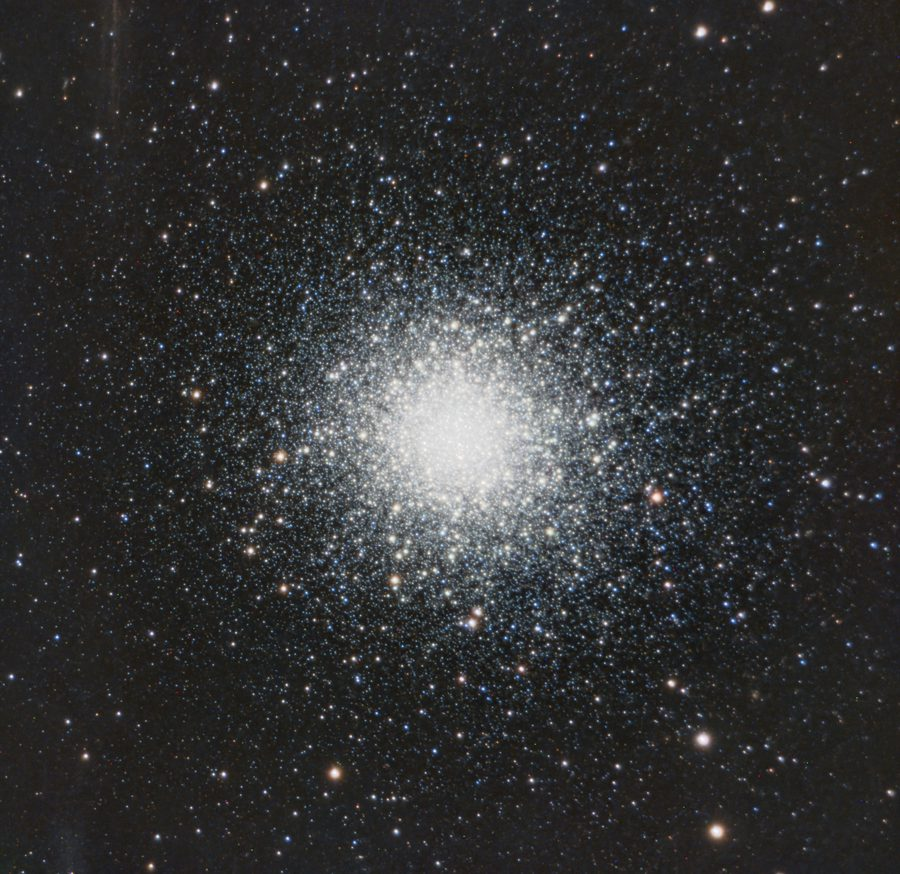
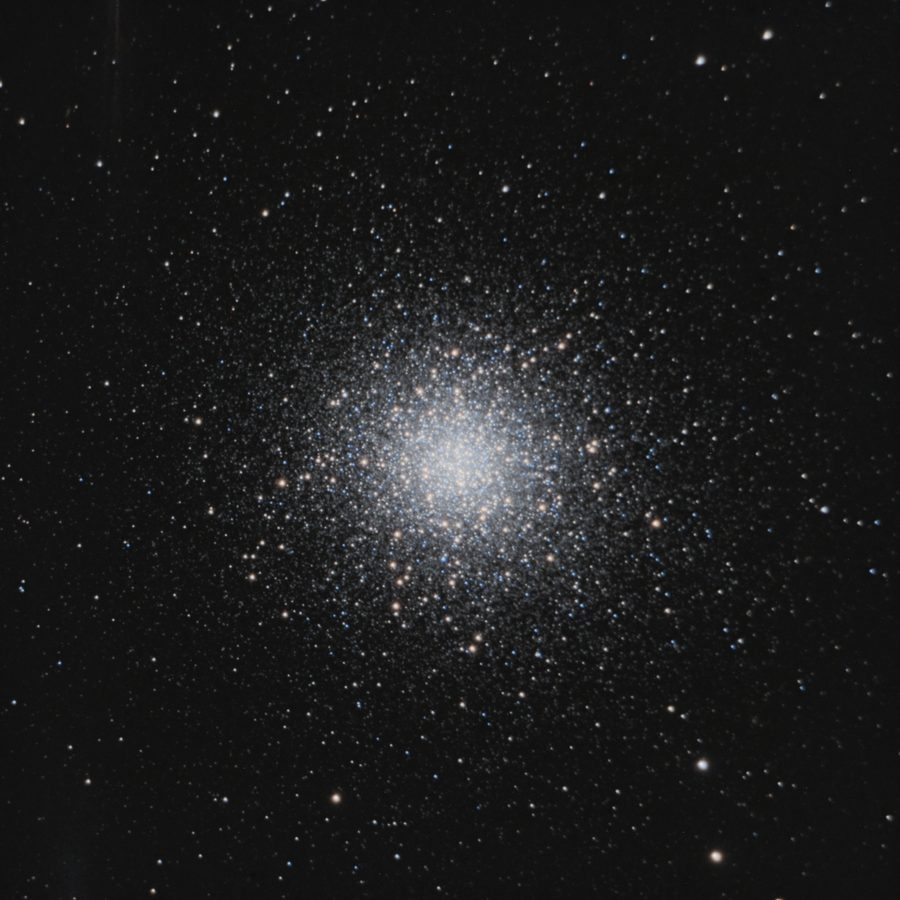
Update M13 and M51 images and add M64 with verified capture details

diff --git a/astro.html b/astro.html
@@ -551,17 +551,17 @@ Distance: 8.3 lm`,
     description: "A dense gathering of stars fades outward from the bright core of this globular cluster.",
     title: "Hercules Globular Cluster: M13",
     category: "Globular Cluster",
-    src: "./astro/M13 - Hercules Globular Cluster.jpg",
-    details: `Date: 05/29/2026
+    src: "./astro/M13 - Hercules Globular Cluster.jpg?v=20261031",
+    details: `Date: 05/30/2026 (recorded stack date)
+Capture date note: Exact acquisition interval could not be verified from the stack metadata.
 Gain: 101
 Offset: 50
 Subs: 141x60
 Scope: Celestron C8
 Filter: None
 Distance: 22,200 ly
-Constellation: Hercules
-Moon illumination: 99%`,
-    date: "2026-05-29",
+Constellation: Hercules`,
+    date: "2026-05-30",
     rank: 4
   },
 
@@ -590,10 +590,10 @@ Constellation: Andromeda`,
     objects: "Whirlpool (M51 / NGC5194), NGC5195",
     title: "Whirlpool and Companion: M51 and NGC5195",
     category: "Galaxy",
-    src: "./astro/M51 - Whirlpool Galaxy.jpg",
-    details: `Date: 05/31/2026 - 06/01/2026
-Gain: 101
-Offset: 50
+    src: "./astro/M51 - Whirlpool Galaxy.jpg?v=20261031",
+    details: `Date: 05/31/2026 - 06/02/2026 (PDT)
+Gain: Unknown (not retained in source master)
+Offset: Unknown (not retained in source master)
 Subs: 336x60
 Scope: Celestron C8
 Filter: None
@@ -601,6 +601,26 @@ Distance: 31 Mly
 Constellation: Canes Venatici`,
     date: "2026-05-31",
     rank: 6
+  },
+
+  {
+    id: "black-eye",
+    description: "A dark arc of dust cuts across the bright central region of the Black Eye Galaxy.",
+    objects: "Black Eye Galaxy (M64 / NGC4826)",
+    title: "Black Eye Galaxy: M64",
+    category: "Galaxy",
+    src: "./astro/M64 - Black Eye Galaxy.jpg",
+    details: `Date: 06/23/2026 - 06/24/2026 (PDT)
+Capture date note: Dates supported by the 56 adjacent raw LIGHT frames; the stack does not retain an explicit input-file list.
+Gain: 101
+Offset: 50
+Subs: 56x180
+Scope: Celestron C8
+Filter: None
+Distance: 17 Mly
+Constellation: Coma Berenices`,
+    date: "2026-06-23",
+    rank: 35
   },
 
   {
@@ -1080,7 +1100,7 @@ Lens: 14mm Rokinon`,
     const categoryOrder = ["Emission Nebula", "Reflection Nebula", "Planetary Nebula", "Galaxy", "Galaxy Cluster", "Globular Cluster", "Solar System", "Wide-field"];
     const categories = ["View All", ...categoryOrder.filter(category => imageData.some(item => item.category === category))];
     const byId = new Map(imageData.map(item => [item.id, item]));
-    const aliases = { horsehead: "horsehead-flame", orion: "orion-running-man", m51: "whirlpool", m101: "pinwheel", m63: "sunflower" };
+    const aliases = { horsehead: "horsehead-flame", orion: "orion-running-man", m13: "hercules", m51: "whirlpool", m64: "black-eye", m101: "pinwheel", m63: "sunflower" };
 
     function featuredRank(item) {
       const index = featuredIds.indexOf(item.id);
